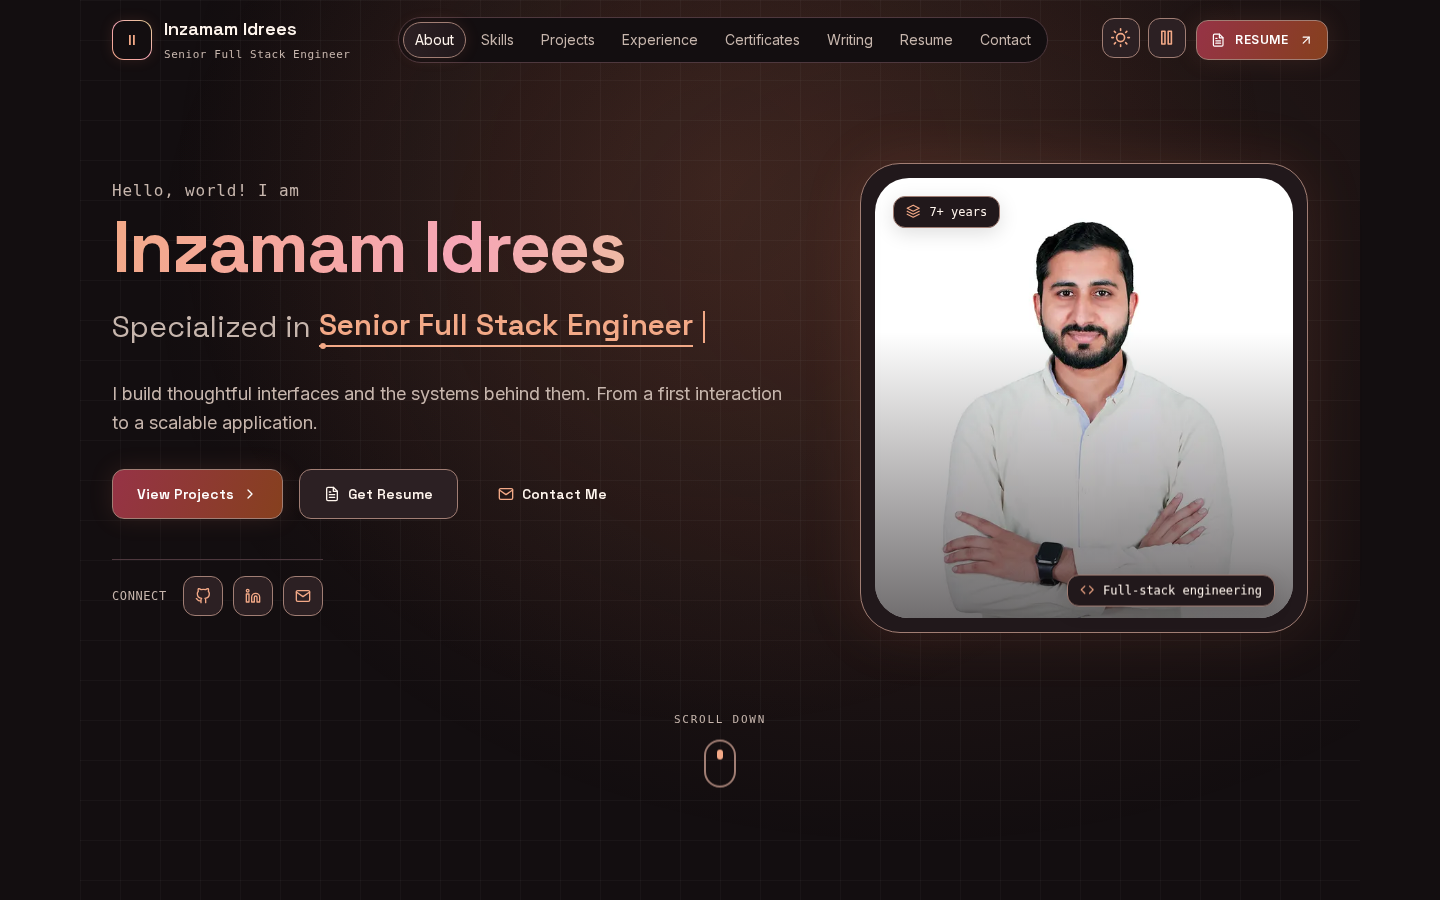
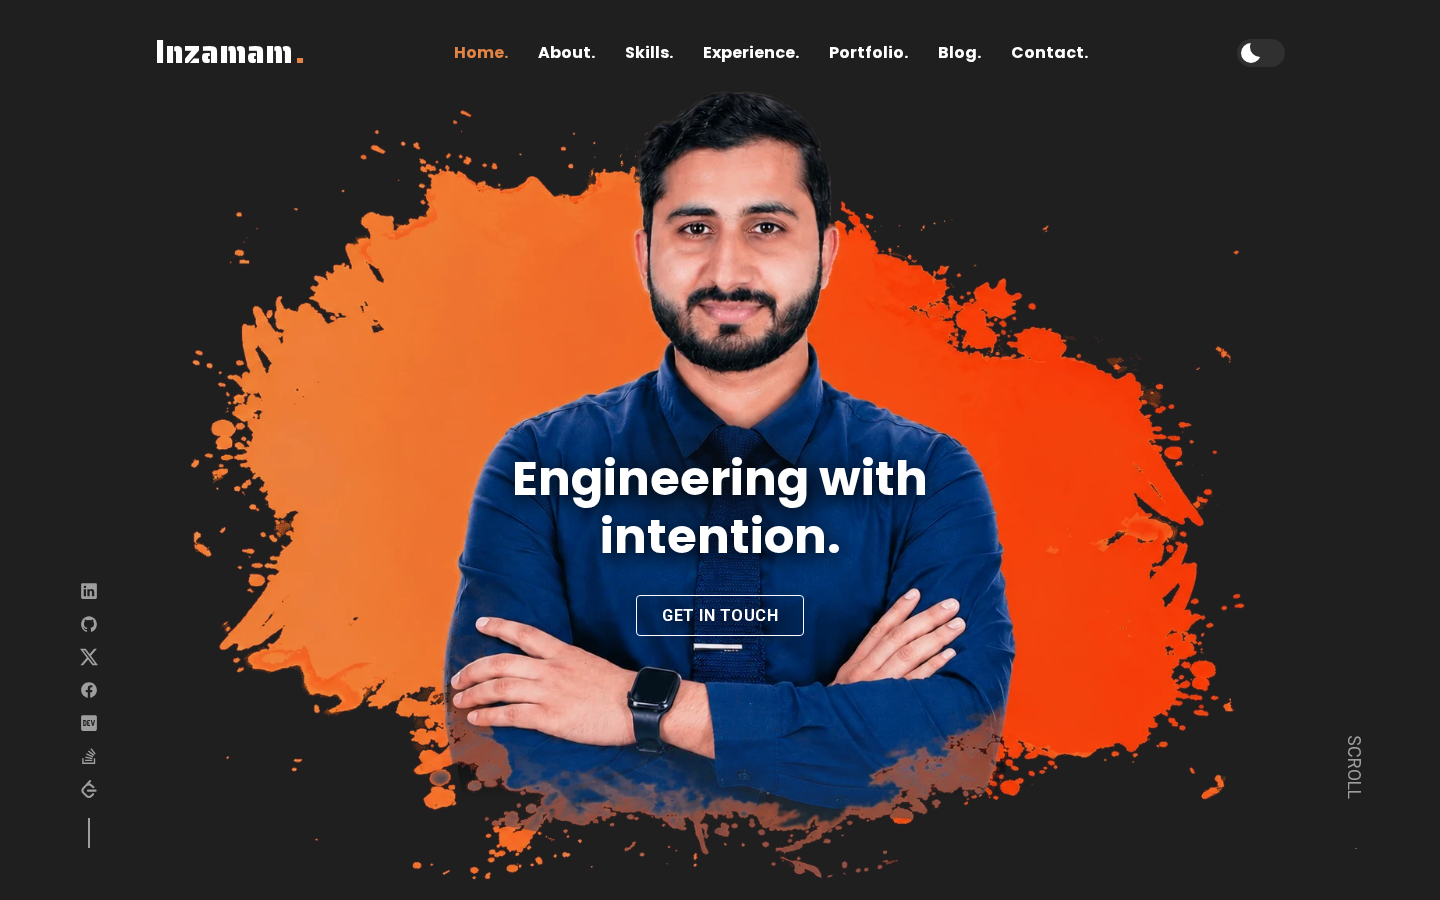
Sync README with active theme

diff --git a/README.md b/README.md
@@ -13,7 +13,7 @@ A multi-theme portfolio platform for a senior full-stack engineer. One validated
 ![Active theme screenshot](./public/image/screen.png)
 
 <!-- ACTIVE-THEME:START -->
-Active theme: **Prism**. Portrait-led glass panels, warm gradients and an interactive project showcase.
+Active theme: **Sienna**. Dark-first personal portfolio in raw sienna: portrait over a paint splash, stat cards, skill tiles and a masonry works grid, with a light mode.
 <!-- ACTIVE-THEME:END -->
 
 [View the live site](https://inzamam-idrees.netlify.app/)
